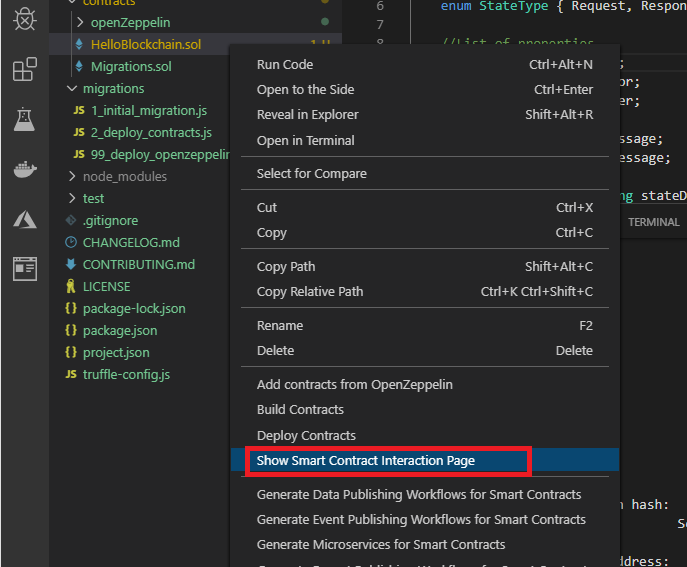
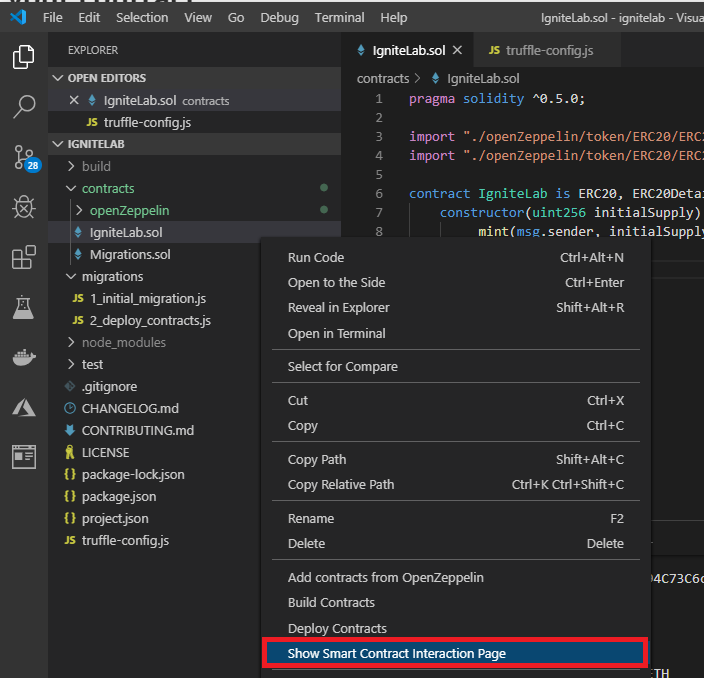
updates

diff --git a/story1/story1.md b/story1/story1.md
@@ -61,7 +61,16 @@
 - In this new file cut and paste the following code and hit save (ctrl-s)
 
   ```
-  TODO - CODE BLOCK FOR OUR NEW CONTRACT
+  pragma solidity ^0.5.0;
+  
+  import "./openZeppelin/token/ERC20/ERC20.sol";
+  import "./openZeppelin/token/ERC20/ERC20Detailed.sol";
+  
+  contract IgniteLab is ERC20, ERC20Detailed {
+      constructor(uint256 initialSupply) ERC20Detailed("Ignite", "IGTE", 18) public {
+          _mint(msg.sender, initialSupply);
+      }
+  }
   ```
 
   ## Step 4: Download and integrate your OSS ERC20 token
@@ -82,7 +91,31 @@
 
   ![](../images/ozDirectory.png)
 
-- To integrate the OpenZeppelin ERC20 token into your smart contract DO THE FOLLOWING --- TBD
+- In this lab, we are only going to use a subset of functionality of the OpenZeppelin smart contracts. In this case, need to make some modifications to the `migrations` directory.
+
+- Open the migrations directory as shown below
+
+  ![](../images/openMigrations.png)
+
+- `delete` the file "99_deploy_openzeppelin.js" file
+
+- Now `edit` the file "2_deploy_contracts.js" file to match the code below
+
+```
+var HelloBlockchain = artifacts.require("IgniteLab");
+var Arg = 100;
+module.exports = deployer => {
+    deployer.deploy(HelloBlockchain, Arg);
+};
+```
+
+- This will set the total number of tokens you can mint. In this case you can mint 100, but you may change the value of Arg to any number you wish.
+
+- Save the changes to your "2_deploy_contracts.js" file. Your directory and "2_deploy_contracts.js" should look like this
+
+  ![](../images/finalOZSetup.png)
+
+
 
 `This completes user story 1: Downloading and integrating an OSS ERC20 token`
 
